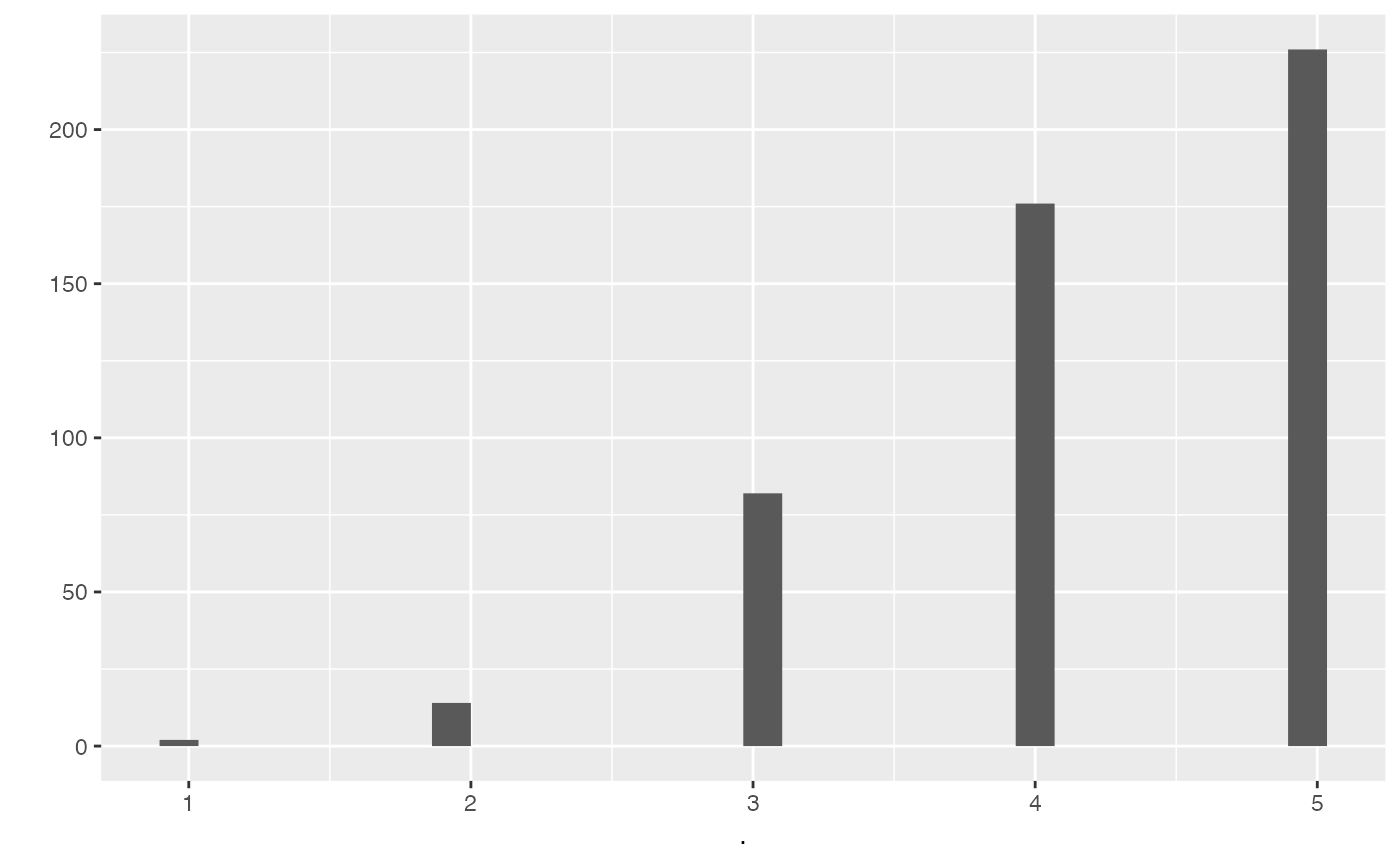
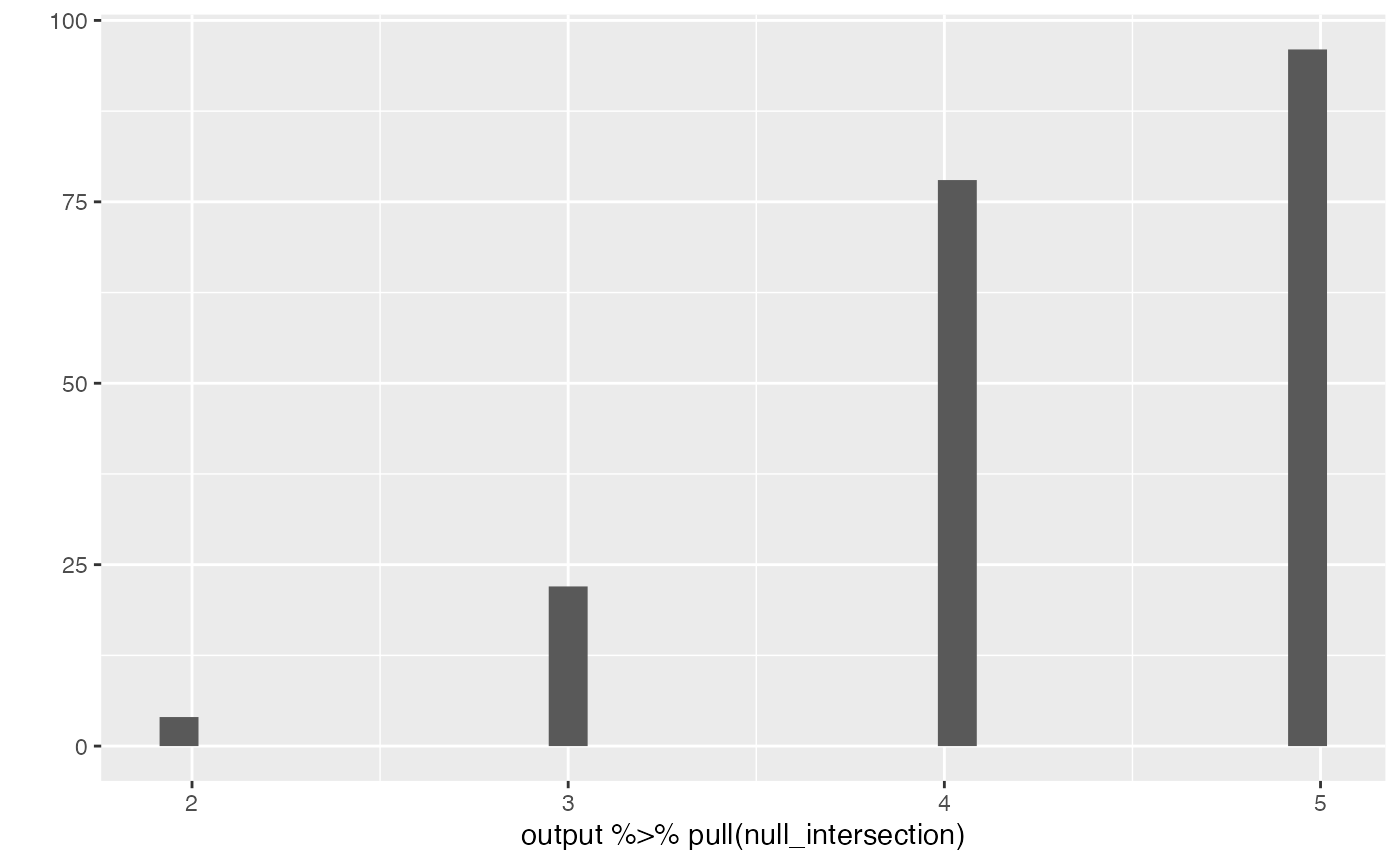
glmnet-RPtest-simulations pkgdown build

diff --git a/docs/articles/RPtests.html b/docs/articles/RPtests.html
@@ -78,9 +78,9 @@
 
     
     
-<div class="section level3">
-<h3 id="philosophy-based-on-cross-validation">Philosophy based on cross-validation<a class="anchor" aria-label="anchor" href="#philosophy-based-on-cross-validation"></a>
-</h3>
+<div class="section level2">
+<h2 id="philosophy-based-on-cross-validation">Philosophy based on cross-validation<a class="anchor" aria-label="anchor" href="#philosophy-based-on-cross-validation"></a>
+</h2>
 <p>In chapter 7 of <span class="citation">Hastie, Tibshirani, and
 Friedman (<a href="#ref-ESL2009" role="doc-biblioref">2009</a>)</span>
 the authors emphasize cross-validation estimates the expected prediction
@@ -132,9 +132,9 @@ paper uses a parametric-residual bootstrap described below, but first we
 consider an important point about the dimension of the first (null)
 model.</p>
 </div>
-<div class="section level3">
-<h3 id="low-vs-high-dimensions">Low vs high-dimensions<a class="anchor" aria-label="anchor" href="#low-vs-high-dimensions"></a>
-</h3>
+<div class="section level2">
+<h2 id="low-vs-high-dimensions">Low vs high-dimensions<a class="anchor" aria-label="anchor" href="#low-vs-high-dimensions"></a>
+</h2>
 <p>In the low dimensional linear model case, the scaled residuals</p>
 <p><span class="math display">\[
 \hat{\mathbf{R}} = \frac{(\mathbf{I} -
@@ -190,9 +190,9 @@ same basic idea of predicting residuals to high-dimensional
 functions, respectively. However, beyond the basic idea there is much
 additional work involved in this other case so we do not consider it
 more here.</p>
-<div class="section level4">
-<h4 id="lasso-details">Lasso details<a class="anchor" aria-label="anchor" href="#lasso-details"></a>
-</h4>
+<div class="section level3">
+<h3 id="lasso-details">Lasso details<a class="anchor" aria-label="anchor" href="#lasso-details"></a>
+</h3>
 <p>To calibrate the test, we need a distribution to compare the accuracy
 measure (typically) achieved by a null model. In the high-dimensional
 case the null model is assumed to be selected by lasso with
@@ -225,10 +225,102 @@ interactions.</p>
 \sigma\)</span> and compare to accuracy in predicting <span class="math inline">\(\mathbf{\zeta}^{(b)}\)</span>? (Consider
 dimensions).</p>
 </div>
-</div>
 <div class="section level3">
-<h3 id="simulations-and-examples">Simulations and examples<a class="anchor" aria-label="anchor" href="#simulations-and-examples"></a>
+<h3 id="rptest-code-explanation">
+<code>RPtest</code> code explanation<a class="anchor" aria-label="anchor" href="#rptest-code-explanation"></a>
 </h3>
+<p>Below we do not consider special cases, for example when a
+user-specified <code>noise_matrix</code> or <code>beta_est</code>
+overrides default behavior. We assume the function is called as
+<code>RPtest(x, y, resid_type, test = "group", x_alt)</code> with no
+other options changed.</p>
+<p><strong>Note</strong>: with <code>test = "group"</code> the
+<code>RPfunction</code> will be set to <code>lasso_test</code>
+regardless of the dimension of the null or alternative.</p>
+<div class="section level4">
+<h4 id="rptest">
+<code>RPtest</code><a class="anchor" aria-label="anchor" href="#rptest"></a>
+</h4>
+<p>When <code>resid_type = "Lasso"</code> (the default unless otherwise
+specified) the following functions will be called.</p>
+<p>First, <code>cv.glmnet</code> is run several times (in parallel) to
+get an estimate <code>beta_est</code>. The estimated signal is
+<code>sig_est &lt;- x %*% beta_est</code>.</p>
+<p>Next, <code>comp_sigma_est</code> is called with this
+<code>beta_est</code> to compute <code>sqrt(MSE)</code>. This is the
+noise level used by <code>rnorm</code>, the default
+<code>rand_gen</code>, to generate noise terms for simulating
+residuals.</p>
+<p>Now simulated residuals <code>resid_sim</code> are computed by
+calling <code>resid_gen_lasso</code> with the above estimates and noise
+terms.</p>
+</div>
+<div class="section level4">
+<h4 id="resid_gen_lasso">
+<code>resid_gen_lasso</code><a class="anchor" aria-label="anchor" href="#resid_gen_lasso"></a>
+</h4>
+<p>In parallel, calls <code>resid_lasso</code> which fits square-root
+lasso and returns residuals. In the implementation of
+<code>sqrt_lasso</code>, if <code>x</code> is not high-dimensional then
+you will see warnings saying
+<code>Smallest lambda chosen by sqrt_lasso</code>.</p>
+<p>If the type is <code>"OLS"</code> then instead of
+<code>sqrt_lasso</code> residuals are computed the ordinary way.</p>
+</div>
+<div class="section level4">
+<h4 id="orthogonalizing-x_alt">Orthogonalizing <code>x_alt</code><a class="anchor" aria-label="anchor" href="#orthogonalizing-x_alt"></a>
+</h4>
+<p>Based on <code>resid_type</code>, this part either uses
+<code>sqrt_lasso</code> or OLS to residualize <code>x_alt</code>,
+subtracting away predictions based on fits to <code>x_null</code>. By
+default <code>x_null = x</code>, the input to <code>RPtest</code>.</p>
+<p><strong>Note</strong>: At this point, if the input <code>x_alt</code>
+is a subset of <code>x</code>, i.e. using the common nested model
+structure of <span class="math inline">\(F\)</span>-tests, this
+residualization will practically project <code>x_alt &lt;- 0</code> in
+the <code>"OLS"</code> case or close to it in the <code>"Lasso"</code>
+case.</p>
+</div>
+<div class="section level4">
+<h4 id="the-default-rpfunction-is-lasso_test-when-test-group">The default <code>RPfunction</code> is <code>lasso_test</code> (when
+<code>test = "group"</code>)<a class="anchor" aria-label="anchor" href="#the-default-rpfunction-is-lasso_test-when-test-group"></a>
+</h4>
+<p>This is applied on both the original and simulated residuals using
+the above orthogonalized <code>x_alt</code>, and will use
+<code>glmnet(x_alt, resid[_sim])</code>. As a test statistic it computes
+the average MSE over the full solution path using the same values of
+<code>lambda</code> as fit to the original residuals.</p>
+</div>
+<div class="section level4">
+<h4 id="summary">Summary<a class="anchor" aria-label="anchor" href="#summary"></a>
+</h4>
+<p>After projecting <code>x_alt</code> (approximately, in the Lasso
+case) orthogonal to <code>x</code>, it is used with <code>glmnet</code>
+to predict the original residuals <code>resid</code> and simulated ones
+<code>resid_sim</code>, and the MSE over the solution paths are
+compared. If this <code>x_alt</code> predicts the original residuals
+better than those simulated from the null then it’s evidence there is
+signal in <code>x_alt</code>. To use this as a goodness-of-fit test we
+therefore make <code>x_alt</code> include some additional variables
+which were not selected in the original fit.</p>
+</div>
+</div>
+</div>
+<div class="section level2">
+<h2 id="strategy-for-goodness-of-fit-test">Strategy for goodness-of-fit test<a class="anchor" aria-label="anchor" href="#strategy-for-goodness-of-fit-test"></a>
+</h2>
+<p>The original model selection algorithm chooses some number of
+variables, let’s call this <code>s0</code>. To test for the presence of
+signal variables that were not included in this original fit, we choose
+a larger sparsity level <code>m * s0 + b</code> with
+<code>m &gt;= 1</code> and <code>b &gt; 0</code>. We use the model
+selection algorithm to include more variables up to this level of
+sparsity, and we test the significance of these new additional variables
+as a way of checking the fit of the original, smaller model.</p>
+</div>
+<div class="section level2">
+<h2 id="simulations-and-examples">Simulations and examples<a class="anchor" aria-label="anchor" href="#simulations-and-examples"></a>
+</h2>
 <div class="sourceCode" id="cb2"><pre class="downlit sourceCode r">
 <code class="sourceCode R"><span><span class="kw"><a href="https://rdrr.io/r/base/library.html" class="external-link">library</a></span><span class="op">(</span><span class="va"><a href="https://rss.onlinelibrary.wiley.com/doi/10.1111/rssb.12234" class="external-link">RPtests</a></span><span class="op">)</span></span>
 <span><span class="kw"><a href="https://rdrr.io/r/base/library.html" class="external-link">library</a></span><span class="op">(</span><span class="va">hdi</span><span class="op">)</span> <span class="co"># riboflavin dataset</span></span>
@@ -255,7 +347,12 @@ trying to do selective inference in their simulations it seems there is
 no model selection involved in choosing the hypotheses. Type 1 error
 control is shown in simulations set up for the null to be true in all
 instances, rather than doing model selection and subsetting to instances
-where the null holds (as in selective inference).</p>
+where the null holds (as in selective inference). In contrast to their
+simulations, we are interested in the selective (conditional) error
+control rates, as we explore in the simulations below.</p>
+<div class="section level3">
+<h3 id="one-data-generation-example">One data generation example<a class="anchor" aria-label="anchor" href="#one-data-generation-example"></a>
+</h3>
 <div class="sourceCode" id="cb3"><pre class="downlit sourceCode r">
 <code class="sourceCode R"><span><span class="fu"><a href="https://rdrr.io/r/base/Random.html" class="external-link">set.seed</a></span><span class="op">(</span><span class="fl">1</span><span class="op">)</span></span>
 <span><span class="va">n</span> <span class="op">&lt;-</span> <span class="fl">100</span></span>
@@ -277,121 +374,132 @@ where the null holds (as in selective inference).</p>
 <span><span class="co">#&gt; $alt_support</span></span>
 <span><span class="co">#&gt; [1]   3   4  85 133 166 190</span></span>
 <span><span class="co">#&gt; </span></span>
+<span><span class="co">#&gt; $pval_full</span></span>
+<span><span class="co">#&gt; [1] 0.02</span></span>
+<span><span class="co">#&gt; </span></span>
+<span><span class="co">#&gt; $pval_full_lasso</span></span>
+<span><span class="co">#&gt; [1] 0.04</span></span>
+<span><span class="co">#&gt; </span></span>
 <span><span class="co">#&gt; $pval_lasso</span></span>
 <span><span class="co">#&gt; [1] 0.02</span></span>
 <span><span class="co">#&gt; </span></span>
 <span><span class="co">#&gt; $pval_OLS</span></span>
 <span><span class="co">#&gt; [1] 0.02</span></span>
 <span><span class="co">#&gt; </span></span>
-<span><span class="co">#&gt; $pval_full</span></span>
-<span><span class="co">#&gt; [1] 0.02</span></span></code></pre></div>
-<p>Iterate</p>
+<span><span class="co">#&gt; $pval_OLS_beta</span></span>
+<span><span class="co">#&gt; [1] 0.02</span></span>
+<span><span class="co">#&gt; </span></span>
+<span><span class="co">#&gt; $pval_lasso_rev</span></span>
+<span><span class="co">#&gt; [1] 0.82</span></span>
+<span><span class="co">#&gt; </span></span>
+<span><span class="co">#&gt; $pval_OLS_rev</span></span>
+<span><span class="co">#&gt; [1] 1</span></span></code></pre></div>
+</div>
+<div class="section level3">
+<h3 id="iterate-many-times">Iterate many times<a class="anchor" aria-label="anchor" href="#iterate-many-times"></a>
+</h3>
 <div class="sourceCode" id="cb5"><pre class="downlit sourceCode r">
-<code class="sourceCode R"><span><span class="co">#devtools::load_all() # this shouldn't be necessary?</span></span>
-<span><span class="kw"><a href="https://rdrr.io/r/base/library.html" class="external-link">library</a></span><span class="op">(</span><span class="va"><a href="https://github.com/joftius/unbiasedgoodness" class="external-link">unbiasedgoodness</a></span><span class="op">)</span></span>
+<code class="sourceCode R"><span><span class="co">#devtools::load_all() </span></span>
+<span><span class="co">#library(unbiasedgoodness)</span></span>
 <span><span class="fu"><a href="https://rdrr.io/r/base/Random.html" class="external-link">set.seed</a></span><span class="op">(</span><span class="fl">1</span><span class="op">)</span></span>
 <span><span class="va">n</span> <span class="op">&lt;-</span> <span class="fl">100</span></span>
 <span><span class="va">p</span> <span class="op">&lt;-</span> <span class="fl">200</span></span>
 <span><span class="va">s0</span> <span class="op">&lt;-</span> <span class="fl">5</span></span>
 <span><span class="va">m</span> <span class="op">&lt;-</span> <span class="fl">1.2</span></span>
-<span><span class="va">b</span> <span class="op">&lt;-</span> <span class="fl">5</span></span>
+<span><span class="va">b</span> <span class="op">&lt;-</span> <span class="fl">10</span></span>
 <span></span>
-<span><span class="fu">simulate_gof_instance</span><span class="op">(</span><span class="va">m</span>, b <span class="op">=</span> <span class="fl">10</span>, <span class="va">n</span>, <span class="va">p</span>, <span class="va">s0</span><span class="op">)</span></span>
+<span><span class="fu">simulate_gof_instance</span><span class="op">(</span><span class="va">m</span>, <span class="va">b</span>, <span class="va">n</span>, <span class="va">p</span>, <span class="va">s0</span><span class="op">)</span></span>
 <span><span class="co">#&gt;    max_corr   min_beta s_null s_alt null_intersection alt_intersection  null</span></span>
 <span><span class="co">#&gt; 1 0.5636253 0.03821633      4     6                 4                4 FALSE</span></span>
-<span><span class="co">#&gt;     alt pval_lasso pval_OLS pval_full</span></span>
-<span><span class="co">#&gt; 1 FALSE       0.04     0.04      0.52</span></span></code></pre></div>
+<span><span class="co">#&gt;     alt pval_lasso pval_OLS pval_lasso_rev pval_OLS_rev pval_full</span></span>
+<span><span class="co">#&gt; 1 FALSE       0.02     0.04           0.24          0.7      0.52</span></span>
+<span><span class="co">#&gt;   pval_full_lasso pval_OLS_beta</span></span>
+<span><span class="co">#&gt; 1            0.56          0.06</span></span></code></pre></div>
 <div class="sourceCode" id="cb6"><pre class="downlit sourceCode r">
-<code class="sourceCode R"><span><span class="co">#devtools::load_all() # this shouldn't be necessary?</span></span>
-<span><span class="kw"><a href="https://rdrr.io/r/base/library.html" class="external-link">library</a></span><span class="op">(</span><span class="va"><a href="https://github.com/joftius/unbiasedgoodness" class="external-link">unbiasedgoodness</a></span><span class="op">)</span></span>
+<code class="sourceCode R"><span><span class="co">#devtools::load_all() </span></span>
+<span><span class="co">#library(unbiasedgoodness)</span></span>
 <span><span class="fu"><a href="https://rdrr.io/r/base/Random.html" class="external-link">set.seed</a></span><span class="op">(</span><span class="fl">1</span><span class="op">)</span></span>
-<span><span class="va">niters</span> <span class="op">&lt;-</span> <span class="fl">500</span></span>
-<span><span class="va">output</span> <span class="op">&lt;-</span> <span class="fu">simulate_gof</span><span class="op">(</span><span class="va">niters</span>, <span class="va">m</span>, b <span class="op">=</span> <span class="fl">10</span>, <span class="va">n</span>, <span class="va">p</span>, <span class="va">s0</span><span class="op">)</span></span>
-<span><span class="co">#&gt; Warning in gof_RPtest(x, y): Sparsity of 1 chosen by cv.glmnet, forcing to 2 for RPtest compatibility</span></span>
+<span><span class="va">niters</span> <span class="op">&lt;-</span> <span class="fl">200</span></span>
+<span><span class="va">sim_results_file</span> <span class="op">&lt;-</span> <span class="st">"./data/glmnet_RPtest.csv"</span></span>
 <span></span>
-<span><span class="co">#&gt; Warning in gof_RPtest(x, y): Sparsity of 1 chosen by cv.glmnet, forcing to 2 for RPtest compatibility</span></span></code></pre></div>
+<span><span class="kw">if</span> <span class="op">(</span><span class="fu"><a href="https://rdrr.io/r/base/files.html" class="external-link">file.exists</a></span><span class="op">(</span><span class="va">sim_results_file</span><span class="op">)</span><span class="op">)</span> <span class="op">{</span></span>
+<span>  <span class="fu"><a href="https://rdrr.io/r/base/print.html" class="external-link">print</a></span><span class="op">(</span><span class="st">"Loading saved simulation results"</span><span class="op">)</span></span>
+<span>  <span class="va">output</span> <span class="op">&lt;-</span> <span class="fu"><a href="https://rdrr.io/r/utils/read.table.html" class="external-link">read.csv</a></span><span class="op">(</span><span class="va">sim_results_file</span><span class="op">)</span></span>
+<span><span class="op">}</span> <span class="kw">else</span> <span class="op">{</span></span>
+<span>  <span class="co"># run simulation</span></span>
+<span>  <span class="va">output</span> <span class="op">&lt;-</span> <span class="fu">simulate_gof</span><span class="op">(</span><span class="va">niters</span>, <span class="va">m</span>, <span class="va">b</span>, <span class="va">n</span>, <span class="va">p</span>, <span class="va">s0</span><span class="op">)</span></span>
+<span>  <span class="fu"><a href="https://rdrr.io/r/utils/write.table.html" class="external-link">write.csv</a></span><span class="op">(</span><span class="va">output</span>, <span class="va">sim_results_file</span><span class="op">)</span></span>
+<span><span class="op">}</span></span>
+<span><span class="co">#&gt; [1] "Loading saved simulation results"</span></span></code></pre></div>
+</div>
+<div class="section level3">
+<h3 id="distributions-of-p-values">Distributions of <span class="math inline">\(p\)</span>-values<a class="anchor" aria-label="anchor" href="#distributions-of-p-values"></a>
+</h3>
+<p><img src="RPtests_files/figure-html/unnamed-chunk-6-1.png" width="700"><img src="RPtests_files/figure-html/unnamed-chunk-6-2.png" width="700"><img src="RPtests_files/figure-html/unnamed-chunk-6-3.png" width="700"><img src="RPtests_files/figure-html/unnamed-chunk-6-4.png" width="700"><img src="RPtests_files/figure-html/unnamed-chunk-6-5.png" width="700"><img src="RPtests_files/figure-html/unnamed-chunk-6-6.png" width="700"><img src="RPtests_files/figure-html/unnamed-chunk-6-7.png" width="700"></p>
+</div>
+</div>
+<div class="section level2">
+<h2 id="model-selection-success-rates">Model selection success rates<a class="anchor" aria-label="anchor" href="#model-selection-success-rates"></a>
+</h2>
+<p>These diagnostics are computed to give some indication of the
+difficulty level of lasso model selection for the chosen data generation
+process.</p>
 <div class="sourceCode" id="cb7"><pre class="downlit sourceCode r">
 <code class="sourceCode R"><span><span class="va">output</span> <span class="op">|&gt;</span> </span>
 <span>  <span class="fu"><a href="https://dplyr.tidyverse.org/reference/summarise.html" class="external-link">summarize</a></span><span class="op">(</span>null <span class="op">=</span> <span class="fu"><a href="https://rdrr.io/r/base/mean.html" class="external-link">mean</a></span><span class="op">(</span><span class="va">null</span><span class="op">)</span>,</span>
 <span>            alt <span class="op">=</span> <span class="fu"><a href="https://rdrr.io/r/base/mean.html" class="external-link">mean</a></span><span class="op">(</span><span class="va">alt</span><span class="op">)</span>,</span>
 <span>            s_null <span class="op">=</span> <span class="fu"><a href="https://rdrr.io/r/base/mean.html" class="external-link">mean</a></span><span class="op">(</span><span class="va">s_null</span><span class="op">)</span>,</span>
 <span>            s_alt <span class="op">=</span> <span class="fu"><a href="https://rdrr.io/r/base/mean.html" class="external-link">mean</a></span><span class="op">(</span><span class="va">s_alt</span><span class="op">)</span><span class="op">)</span></span>
-<span><span class="co">#&gt;    null   alt s_null s_alt</span></span>
-<span><span class="co">#&gt; 1 0.452 0.548  8.756 7.774</span></span></code></pre></div>
+<span><span class="co">#&gt;   null  alt s_null s_alt</span></span>
+<span><span class="co">#&gt; 1 0.48 0.56  8.505  7.73</span></span></code></pre></div>
 <div class="sourceCode" id="cb8"><pre class="downlit sourceCode r">
-<code class="sourceCode R"><span><span class="va">output</span> <span class="op">|&gt;</span></span>
-<span>  <span class="fu"><a href="https://ggplot2.tidyverse.org/reference/ggplot.html" class="external-link">ggplot</a></span><span class="op">(</span><span class="fu"><a href="https://ggplot2.tidyverse.org/reference/aes.html" class="external-link">aes</a></span><span class="op">(</span><span class="va">pval_OLS</span><span class="op">)</span><span class="op">)</span> <span class="op">+</span></span>
-<span>  <span class="fu"><a href="https://ggplot2.tidyverse.org/reference/geom_histogram.html" class="external-link">geom_histogram</a></span><span class="op">(</span><span class="op">)</span> <span class="op">+</span></span>
-<span>  <span class="fu"><a href="https://ggplot2.tidyverse.org/reference/facet_grid.html" class="external-link">facet_grid</a></span><span class="op">(</span><span class="op">~</span><span class="va">null</span><span class="op">)</span></span>
+<code class="sourceCode R"><span><span class="va">output</span> <span class="op"><a href="https://magrittr.tidyverse.org/reference/pipe.html" class="external-link">%&gt;%</a></span> <span class="fu"><a href="https://dplyr.tidyverse.org/reference/pull.html" class="external-link">pull</a></span><span class="op">(</span><span class="va">null_intersection</span><span class="op">)</span> <span class="op"><a href="https://magrittr.tidyverse.org/reference/pipe.html" class="external-link">%&gt;%</a></span> <span class="fu"><a href="https://ggplot2.tidyverse.org/reference/qplot.html" class="external-link">qplot</a></span><span class="op">(</span><span class="op">)</span></span>
 <span><span class="co">#&gt; `stat_bin()` using `bins = 30`. Pick better value with `binwidth`.</span></span></code></pre></div>
 <p><img src="RPtests_files/figure-html/unnamed-chunk-8-1.png" width="700"></p>
 <div class="sourceCode" id="cb9"><pre class="downlit sourceCode r">
-<code class="sourceCode R"><span><span class="va">output</span> <span class="op">|&gt;</span></span>
-<span>  <span class="fu"><a href="https://ggplot2.tidyverse.org/reference/ggplot.html" class="external-link">ggplot</a></span><span class="op">(</span><span class="fu"><a href="https://ggplot2.tidyverse.org/reference/aes.html" class="external-link">aes</a></span><span class="op">(</span><span class="va">pval_full</span><span class="op">)</span><span class="op">)</span> <span class="op">+</span></span>
-<span>  <span class="fu"><a href="https://ggplot2.tidyverse.org/reference/geom_histogram.html" class="external-link">geom_histogram</a></span><span class="op">(</span><span class="op">)</span> <span class="op">+</span></span>
-<span>  <span class="fu"><a href="https://ggplot2.tidyverse.org/reference/facet_grid.html" class="external-link">facet_grid</a></span><span class="op">(</span><span class="op">~</span><span class="va">null</span><span class="op">)</span></span>
-<span><span class="co">#&gt; `stat_bin()` using `bins = 30`. Pick better value with `binwidth`.</span></span></code></pre></div>
-<p><img src="RPtests_files/figure-html/unnamed-chunk-9-1.png" width="700"></p>
-<div class="sourceCode" id="cb10"><pre class="downlit sourceCode r">
-<code class="sourceCode R"><span><span class="va">output</span> <span class="op">|&gt;</span></span>
-<span>  <span class="fu"><a href="https://ggplot2.tidyverse.org/reference/ggplot.html" class="external-link">ggplot</a></span><span class="op">(</span><span class="fu"><a href="https://ggplot2.tidyverse.org/reference/aes.html" class="external-link">aes</a></span><span class="op">(</span><span class="va">pval_lasso</span><span class="op">)</span><span class="op">)</span> <span class="op">+</span></span>
-<span>  <span class="fu"><a href="https://ggplot2.tidyverse.org/reference/geom_histogram.html" class="external-link">geom_histogram</a></span><span class="op">(</span><span class="op">)</span> <span class="op">+</span></span>
-<span>  <span class="fu"><a href="https://ggplot2.tidyverse.org/reference/facet_grid.html" class="external-link">facet_grid</a></span><span class="op">(</span><span class="op">~</span><span class="va">null</span><span class="op">)</span></span>
-<span><span class="co">#&gt; `stat_bin()` using `bins = 30`. Pick better value with `binwidth`.</span></span></code></pre></div>
-<p><img src="RPtests_files/figure-html/unnamed-chunk-10-1.png" width="700"></p>
-</div>
-<div class="section level2">
-<h2 id="checking">checking<a class="anchor" aria-label="anchor" href="#checking"></a>
-</h2>
-<div class="sourceCode" id="cb11"><pre class="downlit sourceCode r">
-<code class="sourceCode R"><span><span class="kw"><a href="https://rdrr.io/r/base/library.html" class="external-link">library</a></span><span class="op">(</span><span class="va"><a href="https://tidyverse.tidyverse.org" class="external-link">tidyverse</a></span><span class="op">)</span></span></code></pre></div>
-<div class="sourceCode" id="cb12"><pre class="downlit sourceCode r">
-<code class="sourceCode R"><span><span class="va">output</span> <span class="op"><a href="https://magrittr.tidyverse.org/reference/pipe.html" class="external-link">%&gt;%</a></span> <span class="fu"><a href="https://dplyr.tidyverse.org/reference/pull.html" class="external-link">pull</a></span><span class="op">(</span><span class="va">null_intersection</span><span class="op">)</span> <span class="op"><a href="https://magrittr.tidyverse.org/reference/pipe.html" class="external-link">%&gt;%</a></span> <span class="fu"><a href="https://ggplot2.tidyverse.org/reference/qplot.html" class="external-link">qplot</a></span><span class="op">(</span><span class="op">)</span></span>
-<span><span class="co">#&gt; `stat_bin()` using `bins = 30`. Pick better value with `binwidth`.</span></span></code></pre></div>
-<p><img src="RPtests_files/figure-html/unnamed-chunk-12-1.png" width="700"></p>
-<div class="sourceCode" id="cb13"><pre class="downlit sourceCode r">
 <code class="sourceCode R"><span><span class="va">output</span> <span class="op"><a href="https://magrittr.tidyverse.org/reference/pipe.html" class="external-link">%&gt;%</a></span> <span class="fu"><a href="https://dplyr.tidyverse.org/reference/pull.html" class="external-link">pull</a></span><span class="op">(</span><span class="va">alt_intersection</span><span class="op">)</span> <span class="op"><a href="https://magrittr.tidyverse.org/reference/pipe.html" class="external-link">%&gt;%</a></span> <span class="fu"><a href="https://ggplot2.tidyverse.org/reference/qplot.html" class="external-link">qplot</a></span><span class="op">(</span><span class="op">)</span></span>
 <span><span class="co">#&gt; `stat_bin()` using `bins = 30`. Pick better value with `binwidth`.</span></span></code></pre></div>
-<p><img src="RPtests_files/figure-html/unnamed-chunk-12-2.png" width="700"></p>
-<div class="sourceCode" id="cb14"><pre class="downlit sourceCode r">
+<p><img src="RPtests_files/figure-html/unnamed-chunk-8-2.png" width="700"></p>
+<div class="sourceCode" id="cb10"><pre class="downlit sourceCode r">
 <code class="sourceCode R"><span><span class="va">output</span> <span class="op">|&gt;</span> <span class="fu"><a href="https://dplyr.tidyverse.org/reference/pull.html" class="external-link">pull</a></span><span class="op">(</span><span class="va">s_alt</span><span class="op">)</span> <span class="op">|&gt;</span> <span class="fu"><a href="https://ggplot2.tidyverse.org/reference/qplot.html" class="external-link">qplot</a></span><span class="op">(</span><span class="op">)</span></span>
 <span><span class="co">#&gt; `stat_bin()` using `bins = 30`. Pick better value with `binwidth`.</span></span></code></pre></div>
-<p><img src="RPtests_files/figure-html/unnamed-chunk-13-1.png" width="700"></p>
-<div class="sourceCode" id="cb15"><pre class="downlit sourceCode r">
+<p><img src="RPtests_files/figure-html/unnamed-chunk-9-1.png" width="700"></p>
+<div class="sourceCode" id="cb11"><pre class="downlit sourceCode r">
 <code class="sourceCode R"><span><span class="va">output</span> <span class="op">|&gt;</span> <span class="fu"><a href="https://ggplot2.tidyverse.org/reference/ggplot.html" class="external-link">ggplot</a></span><span class="op">(</span><span class="fu"><a href="https://ggplot2.tidyverse.org/reference/aes.html" class="external-link">aes</a></span><span class="op">(</span><span class="va">max_corr</span>, <span class="va">null_intersection</span><span class="op">)</span><span class="op">)</span> <span class="op">+</span> </span>
 <span>  <span class="fu"><a href="https://ggplot2.tidyverse.org/reference/geom_point.html" class="external-link">geom_point</a></span><span class="op">(</span><span class="op">)</span> <span class="op">+</span> <span class="fu"><a href="https://ggplot2.tidyverse.org/reference/geom_smooth.html" class="external-link">geom_smooth</a></span><span class="op">(</span>method <span class="op">=</span> <span class="st">"lm"</span><span class="op">)</span></span>
 <span><span class="co">#&gt; `geom_smooth()` using formula 'y ~ x'</span></span></code></pre></div>
-<p><img src="RPtests_files/figure-html/unnamed-chunk-14-1.png" width="700"></p>
-<div class="sourceCode" id="cb16"><pre class="downlit sourceCode r">
+<p><img src="RPtests_files/figure-html/unnamed-chunk-10-1.png" width="700"></p>
+<div class="sourceCode" id="cb12"><pre class="downlit sourceCode r">
 <code class="sourceCode R"><span><span class="va">output</span> <span class="op">|&gt;</span> <span class="fu"><a href="https://ggplot2.tidyverse.org/reference/ggplot.html" class="external-link">ggplot</a></span><span class="op">(</span><span class="fu"><a href="https://ggplot2.tidyverse.org/reference/aes.html" class="external-link">aes</a></span><span class="op">(</span><span class="va">min_beta</span>, <span class="va">null_intersection</span><span class="op">)</span><span class="op">)</span> <span class="op">+</span> </span>
 <span>  <span class="fu"><a href="https://ggplot2.tidyverse.org/reference/geom_point.html" class="external-link">geom_point</a></span><span class="op">(</span><span class="op">)</span> <span class="op">+</span> <span class="fu"><a href="https://ggplot2.tidyverse.org/reference/geom_smooth.html" class="external-link">geom_smooth</a></span><span class="op">(</span>method <span class="op">=</span> <span class="st">"lm"</span><span class="op">)</span></span>
 <span><span class="co">#&gt; `geom_smooth()` using formula 'y ~ x'</span></span></code></pre></div>
-<p><img src="RPtests_files/figure-html/unnamed-chunk-15-1.png" width="700"></p>
-<div class="sourceCode" id="cb17"><pre class="downlit sourceCode r">
+<p><img src="RPtests_files/figure-html/unnamed-chunk-11-1.png" width="700"></p>
+<div class="sourceCode" id="cb13"><pre class="downlit sourceCode r">
 <code class="sourceCode R"><span><span class="va">output</span> <span class="op"><a href="https://magrittr.tidyverse.org/reference/pipe.html" class="external-link">%&gt;%</a></span> <span class="fu"><a href="https://dplyr.tidyverse.org/reference/pull.html" class="external-link">pull</a></span><span class="op">(</span><span class="va">null_intersection</span><span class="op">)</span> <span class="op">|&gt;</span> <span class="fu"><a href="https://ggplot2.tidyverse.org/reference/qplot.html" class="external-link">qplot</a></span><span class="op">(</span><span class="op">)</span></span>
 <span><span class="co">#&gt; `stat_bin()` using `bins = 30`. Pick better value with `binwidth`.</span></span></code></pre></div>
-<p><img src="RPtests_files/figure-html/unnamed-chunk-16-1.png" width="700"></p>
-<div class="section level4">
-<h4 id="rptests-controls-selective-error">RPtests controls selective error<a class="anchor" aria-label="anchor" href="#rptests-controls-selective-error"></a>
-</h4>
+<p><img src="RPtests_files/figure-html/unnamed-chunk-12-1.png" width="700"></p>
+<div class="section level3">
+<h3 id="rptests-controls-selective-error">RPtests controls selective error<a class="anchor" aria-label="anchor" href="#rptests-controls-selective-error"></a>
+</h3>
 <p>To the best of my knowledge it is not known whether
 <strong>RPtests</strong> is valid for <strong>selective
 inference</strong> since it was not designed or proven to do so. This
 empirical demonstration may be a novel result showing that, at least in
 the conditions simulated here, the method does control selective
 errors.</p>
-<div class="section level5">
-<h5 id="selective-type-1-error">Selective type 1 error<a class="anchor" aria-label="anchor" href="#selective-type-1-error"></a>
-</h5>
+<div class="section level4">
+<h4 id="selective-type-1-error">Selective type 1 error<a class="anchor" aria-label="anchor" href="#selective-type-1-error"></a>
+</h4>
 </div>
-<div class="section level5">
-<h5 id="selective-unbiasedness-and-power">Selective unbiasedness and power<a class="anchor" aria-label="anchor" href="#selective-unbiasedness-and-power"></a>
-</h5>
+<div class="section level4">
+<h4 id="selective-unbiasedness-and-power">Selective unbiasedness and power<a class="anchor" aria-label="anchor" href="#selective-unbiasedness-and-power"></a>
+</h4>
 </div>
 </div>
-<div class="section level3">
-<h3 class="unnumbered" id="references">References<a class="anchor" aria-label="anchor" href="#references"></a>
-</h3>
+</div>
+<div class="section level2 unnumbered">
+<h2 class="unnumbered" id="references">References<a class="anchor" aria-label="anchor" href="#references"></a>
+</h2>
 <div id="refs" class="references csl-bib-body hanging-indent">
 <div id="ref-belloni2011" class="csl-entry">
 Belloni, A., V. Chernozhukov, and L. Wang. 2011. <span>“Square-Root
@@ -449,7 +557,6 @@ Wasserman, Larry, and Kathryn Roeder. 2009.
 <span>“High-<span>Dimensional</span> <span>Variable</span>
 <span>Selection</span>.”</span> <em>The Annals of Statistics</em> 37
 (5A): 2178–2201. <a href="https://www.jstor.org/stable/30243702" class="external-link">https://www.jstor.org/stable/30243702</a>.
-</div>
 </div>
 </div>
 </div>
